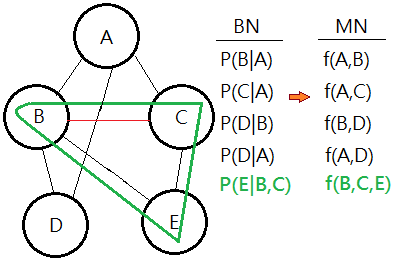
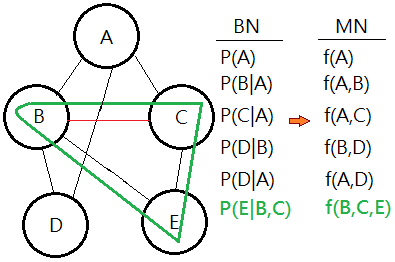
update _posts/2018-07-29-bayesian-ml-net-var-elim-order-moral.md with potentials, 2

diff --git a/_posts/2018-07-29-bayesian-ml-net-var-elim-order-moral.md b/_posts/2018-07-29-bayesian-ml-net-var-elim-order-moral.md
@@ -56,6 +56,18 @@ The <font color="Red">moral graph</font> could facilitate the explanation of the
 >The <font color="DeepSkyBlue">conditional</font> probability distribution, <font color="DeepSkyBlue">joint</font> probability distribution are all the special cases of <font color="Red">potential</font>.  The domain of a <font color="Red">potential</font> $\chi$ is denoted as:  
 >$dom(\phi_{\chi})$=$\chi$  
 >
+><font color="DeepSkyBlue">[2]</font>
+><font color="OrangeRed">Moralizing and domain graph</font>  
+>The <font color="Red">domain graph</font> is also known as <font color="Red">moral graph</font>.  
+>
+
+<!-- 
+https://pdfs.semanticscholar.org/presentation/22b4/97a5431e961792e5c46d6348e92b362d378b.pdf  
+
+Explain domain graph.
+
+Extend from 2018-07-29-bayesian-ml-net-var-elim-order-moral-factors.png, BN->MN, illustrate CPD with potentials and domain operator.
+-->
 
 <!--
 ### Factorization In Markov Network
